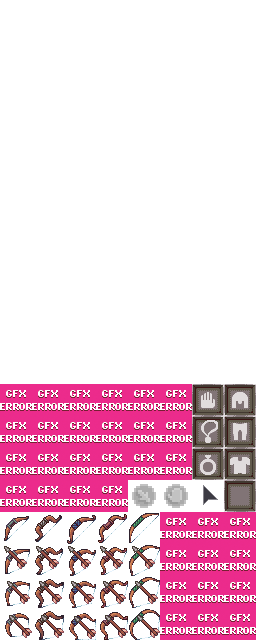
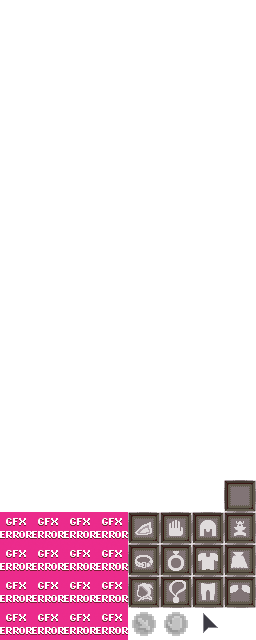
Finished Equipment Slots

diff --git a/Dungeoneer/src/com/interrupt/dungeoneer/ui/Hud.java b/Dungeoneer/src/com/interrupt/dungeoneer/ui/Hud.java
@@ -27,20 +27,20 @@ import com.interrupt.dungeoneer.gfx.TextureAtlas;
 import com.interrupt.managers.StringManager;
 
 public class Hud {
-	
+
 	protected TextureRegion itemTextures[];
 	MultiTouchButton inventoryBtn;
 	MultiTouchButton mapBtn;
-	
+
 	MultiTouchButton draggingBtn = null;
 	public Item dragging = null;
-	
+
 	private Integer lastUiTouchPointer;
-	
+
 	public ArrayMap<String,EquipLoc> equipLocations = new ArrayMap<String,EquipLoc>();
-	
+
 	public enum DragAndDropResult { equip, drop, invalid, ignore };
-	
+
 	public void init(TextureRegion itemTextures[])
 	{
 		this.itemTextures = itemTextures;
@@ -49,24 +49,27 @@ public class Hud {
 		float startY = 1.7f;
 
 		// Equipment Slots //
-		equipLocations.put( "HAT", new EquipLoc("HAT", startX + -0.5f, startY, 103) );
-		equipLocations.put( "ARMOR", new EquipLoc("ARMOR", startX + -0.5f, startY + 1f, 119) );
-		equipLocations.put( "PANTS", new EquipLoc("PANTS", startX + -0.5f, startY + 2f, 111) );
+		equipLocations.put( "HAT", new EquipLoc("HAT", startX + -0.5f, startY, 134) );
+		equipLocations.put( "ARMOR", new EquipLoc("ARMOR", startX + -0.5f, startY + 1f, 142) );
+		equipLocations.put( "PANTS", new EquipLoc("PANTS", startX + -0.5f, startY + 2f, 150) );
+		equipLocations.put( "CLOAK", new EquipLoc("CLOAK", startX + 0.5f, startY, 148) );
+		equipLocations.put( "CAPE", new EquipLoc("CAPE", startX + 0.5f, startY + 1f, 143) );
+		equipLocations.put( "SHOULDER", new EquipLoc("SHOULDER", startX + -1.5f, startY, 132) );
+		equipLocations.put( "BELT", new EquipLoc("BELT", startX + -1.5f, startY + 2f, 140) );
 
+		equipLocations.put( "OFFHAND", new EquipLoc("OFFHAND", startX + 0.5f, startY + 2f, 133) );
+		equipLocations.put( "RING1", new EquipLoc("RING", startX + -2.5f, startY, 141) );
+		equipLocations.put( "RING2", new EquipLoc("RING", startX + -2.5f, startY + 1f, 141) );
+		equipLocations.put( "AMULET", new EquipLoc("AMULET", startX + -1.5f, startY + 1f, 149) );
 
-		equipLocations.put( "OFFHAND", new EquipLoc("OFFHAND", startX + 0.5f, startY, 102) );
-		equipLocations.put( "RING1", new EquipLoc("RING", startX + 0.5f, startY + 1f, 118) );
-		equipLocations.put( "RING2", new EquipLoc("RING", startX + -1.5f, startY + 1f, 118) );
-		equipLocations.put( "AMULET", new EquipLoc("AMULET", startX + 0.5f, startY + 2f, 110) );
-		
 		for(EquipLoc loc : equipLocations.values())
 		{
 			loc.init(itemTextures);
 		}
-		
+
 		refresh();
 	}
-	
+
 	public void refreshEquipLocations()
 	{
 		for(EquipLoc loc : equipLocations.values())
@@ -74,29 +77,29 @@ public class Hud {
 			loc.refresh();
 		}
 	}
-	
+
 	public void refresh() {
-		
+
 		for(EquipLoc loc : equipLocations.values())
 		{
 			loc.refresh();
 		}
-		
+
 		if(inventoryBtn != null) Game.ui.getActors().removeValue(inventoryBtn, true);
 		if(mapBtn != null) Game.ui.getActors().removeValue(mapBtn, true);
-		
+
 		inventoryBtn = new MultiTouchButton(new TextureRegionDrawable(itemTextures[57]));
 		inventoryBtn.addListener(new ClickListener() {
 			public void clicked(InputEvent event, float x, float y) {
 				if(Game.isMobile || !Game.instance.input.caughtCursor)
 					Game.instance.toggleInventory();
-			}			
+			}
 		});
-		
+
 		if(Game.isMobile) {
 			Game.ui.addActor(inventoryBtn);
 		}
-		
+
 		//mapBtn = new MultiTouchButton(itemTextures[61]);
 		mapBtn = new MultiTouchButton(null);
 		mapBtn.addListener(new ClickListener() {
@@ -104,66 +107,66 @@ public class Hud {
 			@Override
 			public void clicked(InputEvent event, float x, float y) {
 				if(Game.isMobile || !Game.instance.input.caughtCursor)
-					GameManager.renderer.showMap = !GameManager.renderer.showMap; 
+					GameManager.renderer.showMap = !GameManager.renderer.showMap;
 			}
-			
+
 		});
 		Game.ui.addActor(mapBtn);
-		
+
 		if(dragging != null) {
 			TextureAtlas atlas = TextureAtlas.cachedAtlases.get(dragging.spriteAtlas);
 			if(atlas == null) atlas = TextureAtlas.cachedAtlases.get("item");
-			
+
 			draggingBtn = new MultiTouchButton(new TextureRegionDrawable(dragging.getInventoryTextureRegion()));
 			Game.ui.addActor(draggingBtn);
 		} else if(draggingBtn != null) {
 			Game.ui.getActors().removeValue(draggingBtn, true);
 			draggingBtn = null;
 		}
-		
+
 		final float uiSize = Game.GetUiSize();
 		final float inventoryBtnSize = uiSize + (inventoryBtn.isPressed() ? 0f : 0.1f) * uiSize;
-		
+
 		inventoryBtn.setWidth(inventoryBtnSize);
 		inventoryBtn.setHeight(inventoryBtnSize);
-		
+
 		mapBtn.setWidth(uiSize * 1.4f);
 		mapBtn.setHeight(uiSize * 1.4f);
-		
+
 		int yPos = (int) (Gdx.graphics.getHeight() - uiSize);
 		int xPos = (int) (Gdx.graphics.getWidth() - uiSize);
 		inventoryBtn.setY(yPos);
 		inventoryBtn.setX(xPos);
-		
+
 		mapBtn.setX(0);
 		mapBtn.setY((int) (Gdx.graphics.getHeight() - mapBtn.getHeight()));
 	}
-	
-	public void tick(GameInput input) {		
-		
+
+	public void tick(GameInput input) {
+
 		for(EquipLoc loc : equipLocations.values())
 		{
 			loc.tickUI(input);
 		}
-		
+
 		float uiSize = Game.GetUiSize();
 		final float inventoryBtnSize = uiSize + (inventoryBtn.isPressed() ? 0.1f : 0f) * uiSize;
-		
+
 		inventoryBtn.setWidth(inventoryBtnSize);
 		inventoryBtn.setHeight(inventoryBtnSize);
-		
+
 		mapBtn.setWidth(uiSize * 1.4f);
 		mapBtn.setHeight(uiSize * 1.4f);
-		
+
 		Integer uiTouchPointer = input.uiTouchPointer;
 		if(uiTouchPointer != null) lastUiTouchPointer = uiTouchPointer;
 		else if (lastUiTouchPointer != null) uiTouchPointer = lastUiTouchPointer;
 		else uiTouchPointer = 0;
-		
+
 		if(draggingBtn != null && input.uiTouchPointer != null) {
 			draggingBtn.setWidth(uiSize);
 			draggingBtn.setHeight(uiSize);
-			
+
 			draggingBtn.setY(-Game.instance.input.getPointerY(uiTouchPointer) + Gdx.graphics.getHeight() - uiSize / 2);
 			draggingBtn.setX(Game.instance.input.getPointerX(uiTouchPointer) - uiSize / 2);
 		}
@@ -175,7 +178,7 @@ public class Hud {
 				equipOverSlot = loc.getMouseOverSlot();
 				if(equipOverSlot != null) break;
 			}
-			
+
 			if(Game.hotbar.getMouseOverSlot() != null) {
 				Game.DragAndDropInventoryItem(dragging, null, null);
 				Game.hotbar.refresh();
@@ -188,15 +191,15 @@ public class Hud {
 			}
 			else if(equipOverSlot != null) {
 				DragAndDropResult res = Game.DragAndDropInventoryItem(dragging, null, null);
-				
+
 				if(res == DragAndDropResult.invalid)
 				{
 					Game.instance.player.throwItem(dragging, Game.instance.level, 0, 0);
 					dragging.isActive = true;
 				}
-				
+
 				dragging = null;
-				
+
 				refresh();
 			}
 			else if(Game.instance.input.getPointerX(uiTouchPointer) > Gdx.graphics.getWidth() - uiSize && Game.instance.input.getPointerY(uiTouchPointer) < uiSize) {
@@ -206,75 +209,75 @@ public class Hud {
 					if(Game.instance.player.inventory.get(i) == null) {
 						foundSlot = true;
 						Game.instance.player.inventory.set(i, dragging);
-						
+
 						if(dragging instanceof QuestItem) {
 							((QuestItem)dragging).doQuestThing();
 						}
-						
+
 						dragging = null;
-						
+
 						Game.bag.refresh();
 					}
 				}
 				if(!foundSlot) Game.ShowMessage(StringManager.get("ui.Hud.noRoomText"), 0.6f, 1f);
 			}
 			else {
-				
+
 				Vector3 levelIntersection = new Vector3();
 				Ray ray = Game.camera.getPickRay(Game.instance.input.getPointerX(uiTouchPointer), Game.instance.input.getPointerY(uiTouchPointer));
 				float distance = 0;
 				if(Collidor.intersectRayTriangles(ray, GameManager.renderer.GetCollisionTrianglesAlong(ray, 20f), levelIntersection, null)) {
 					distance = ray.origin.sub(levelIntersection).len();
 				}
-				
+
 				Game.instance.player.throwItem(dragging, Game.instance.level, 0, 0);
-				
+
 				dragging.xa = ray.direction.x * 0.28f * Math.min(1, distance / 6.0f);
 				dragging.za = ray.direction.y * 0.5f * Math.min(1, distance / 6.0f) + 0.04f;
 				dragging.ya = ray.direction.z * 0.28f * Math.min(1, distance / 6.0f);
 				dragging = null;
 			}
-			
+
 			refresh();
 		}
-		
+
 		int yPos = (int) (Gdx.graphics.getHeight() - uiSize);
 		int xPos = (int) (Gdx.graphics.getWidth() - uiSize);
 		inventoryBtn.setY(yPos);
 		inventoryBtn.setX(xPos);
-		
+
 		mapBtn.setX(0);
 		mapBtn.setY((int) (Gdx.graphics.getHeight() - mapBtn.getHeight()));
 	}
-	
+
 	public Integer getMouseOverSlot()
 	{
 		if(Game.bag.getMouseOverSlot() != null)
 			return Game.bag.getMouseOverSlot() + Game.bag.invOffset;
-		
+
 		if(Game.hotbar.getMouseOverSlot() != null)
 			return Game.hotbar.getMouseOverSlot() + Game.hotbar.invOffset;
-		
+
 		return null;
 	}
-	
+
 	public Item getMouseOverItem()
 	{
 		Integer bagOver = Game.bag.getMouseOverSlot();
 		if(bagOver != null) return Game.instance.player.inventory.get(bagOver + Game.bag.invOffset);
-		
+
 		Integer hotbarOver = Game.hotbar.getMouseOverSlot();
 		if(hotbarOver != null) return Game.instance.player.inventory.get(hotbarOver + Game.hotbar.invOffset);
-		
+
 		for(EquipLoc loc : equipLocations.values())
 		{
 			if(loc.getMouseOverSlot() != null) {
 				return Game.instance.player.equippedItems.get(loc.equipLoc);
 			}
 		}
-		
+
 		return null;
 	}
-	
+
 	public boolean isAttackPressed() { return false; }
 }
